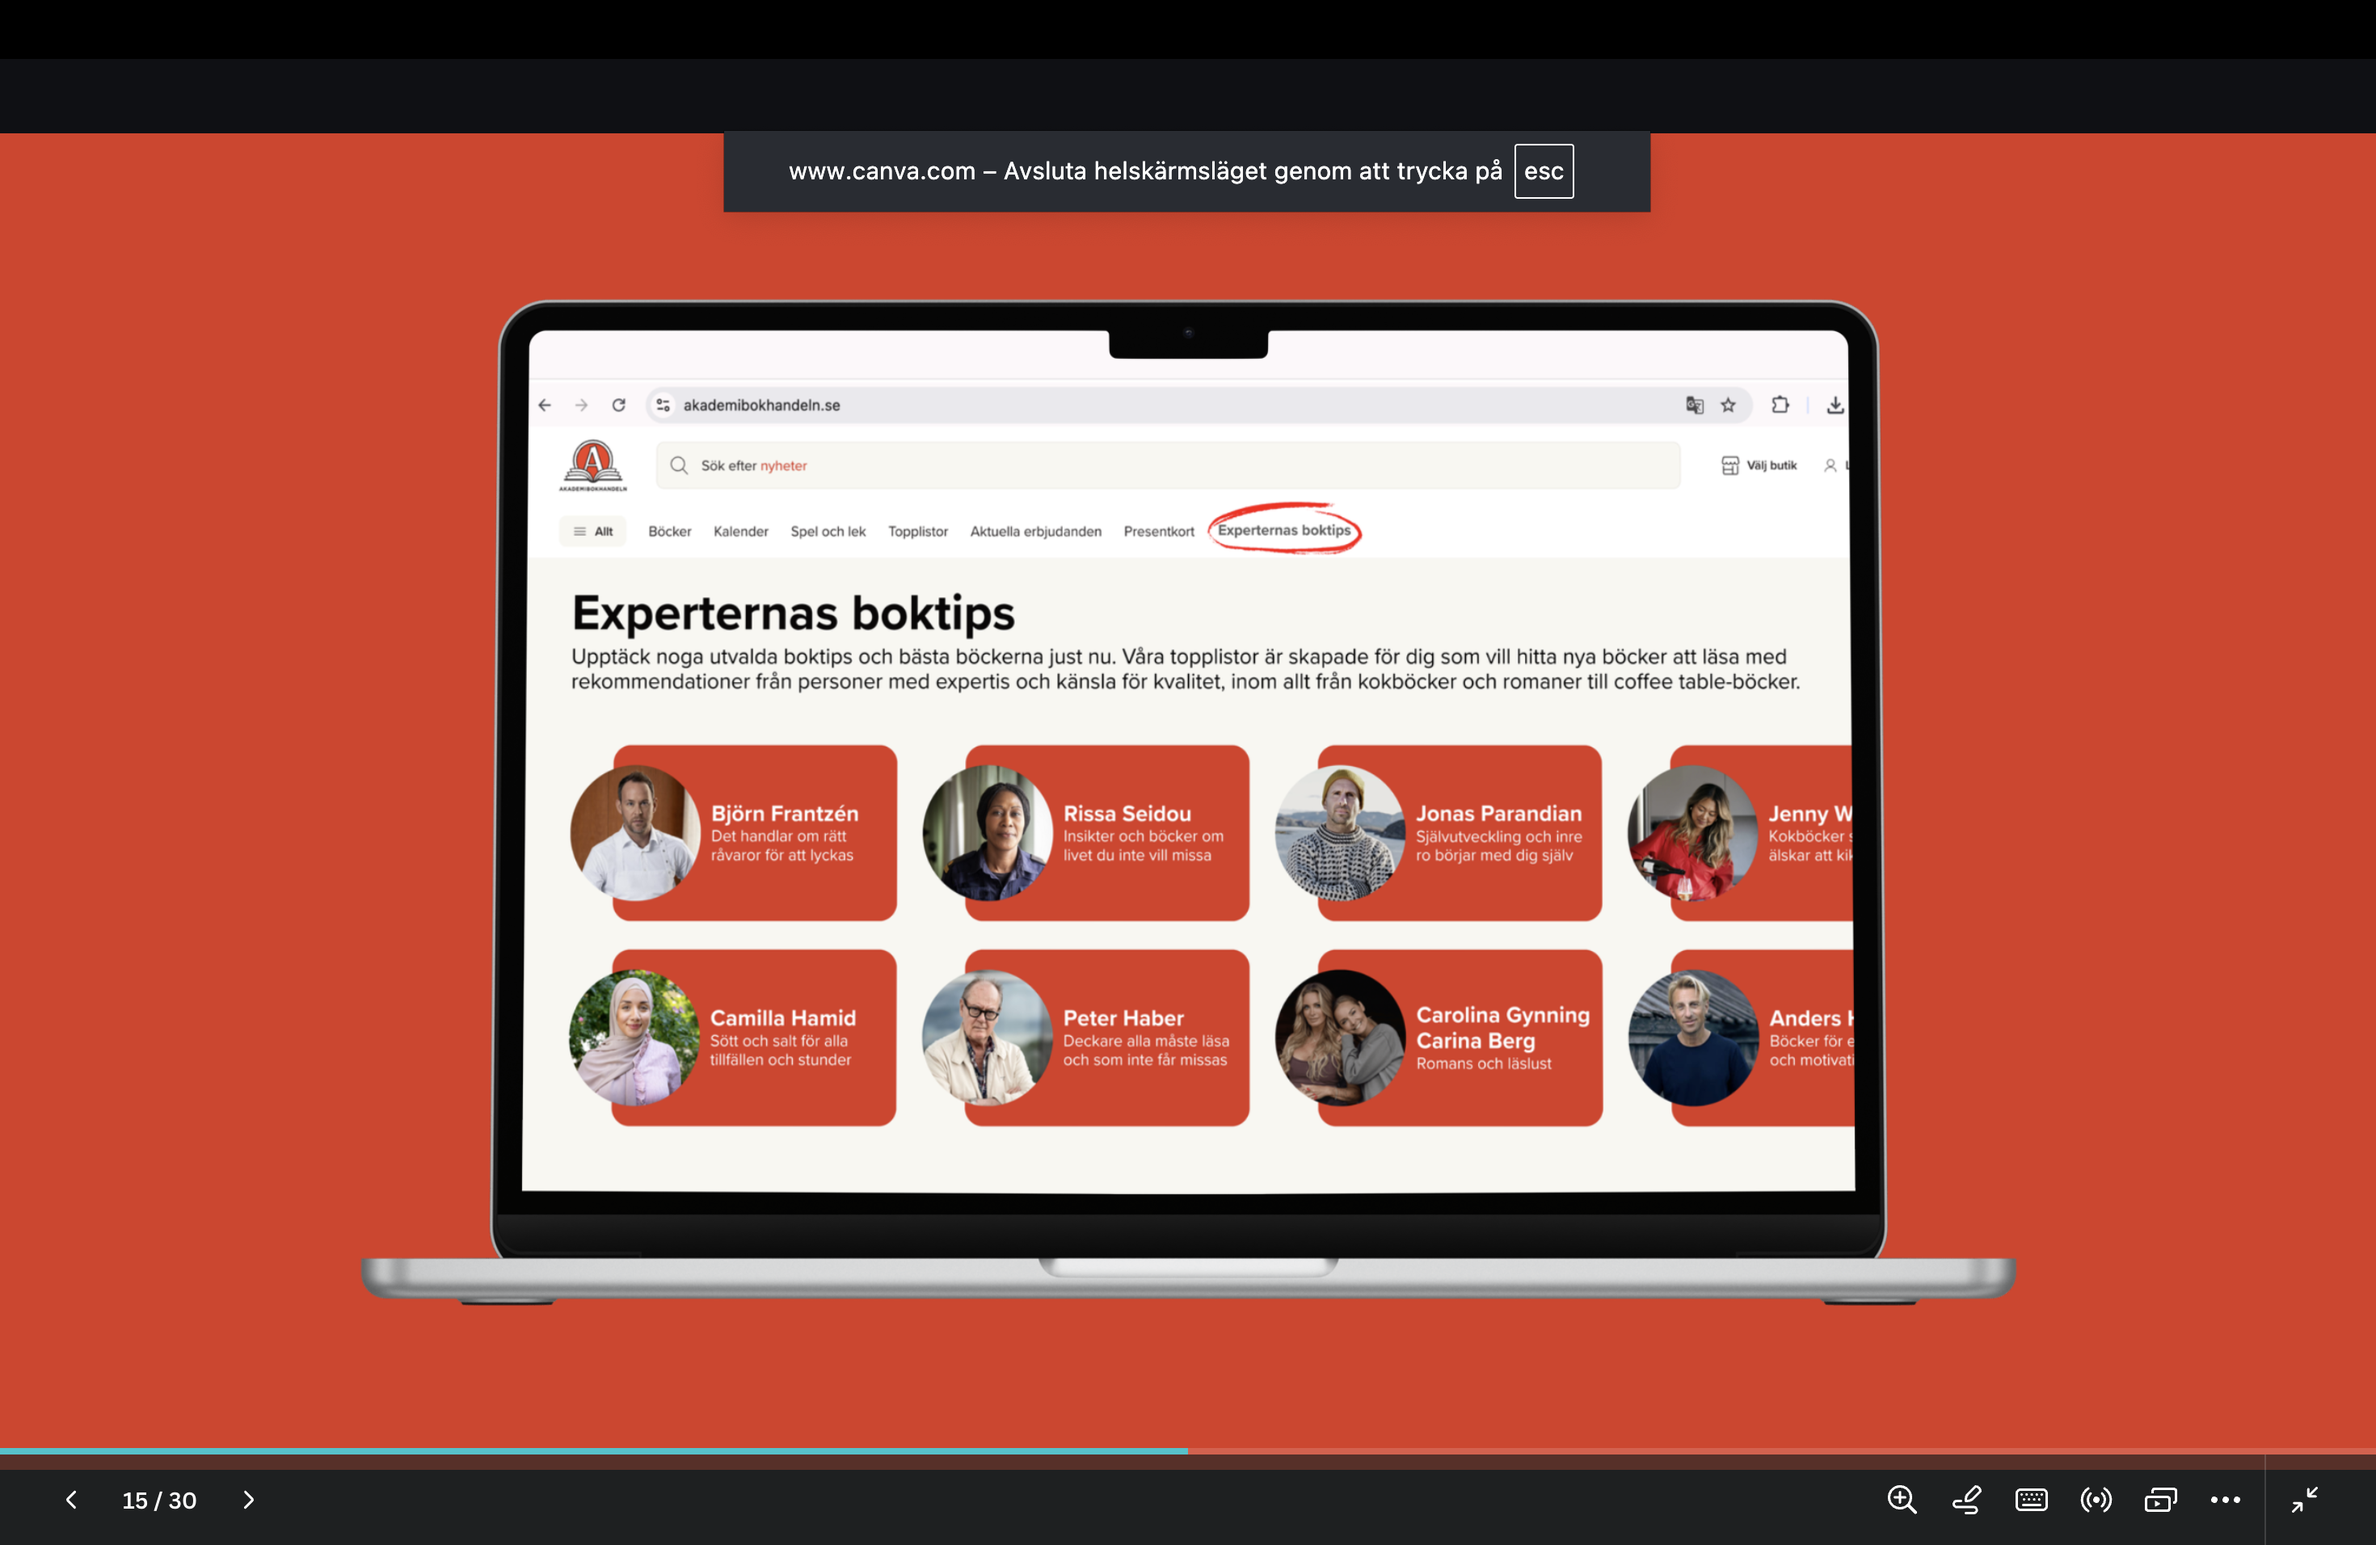
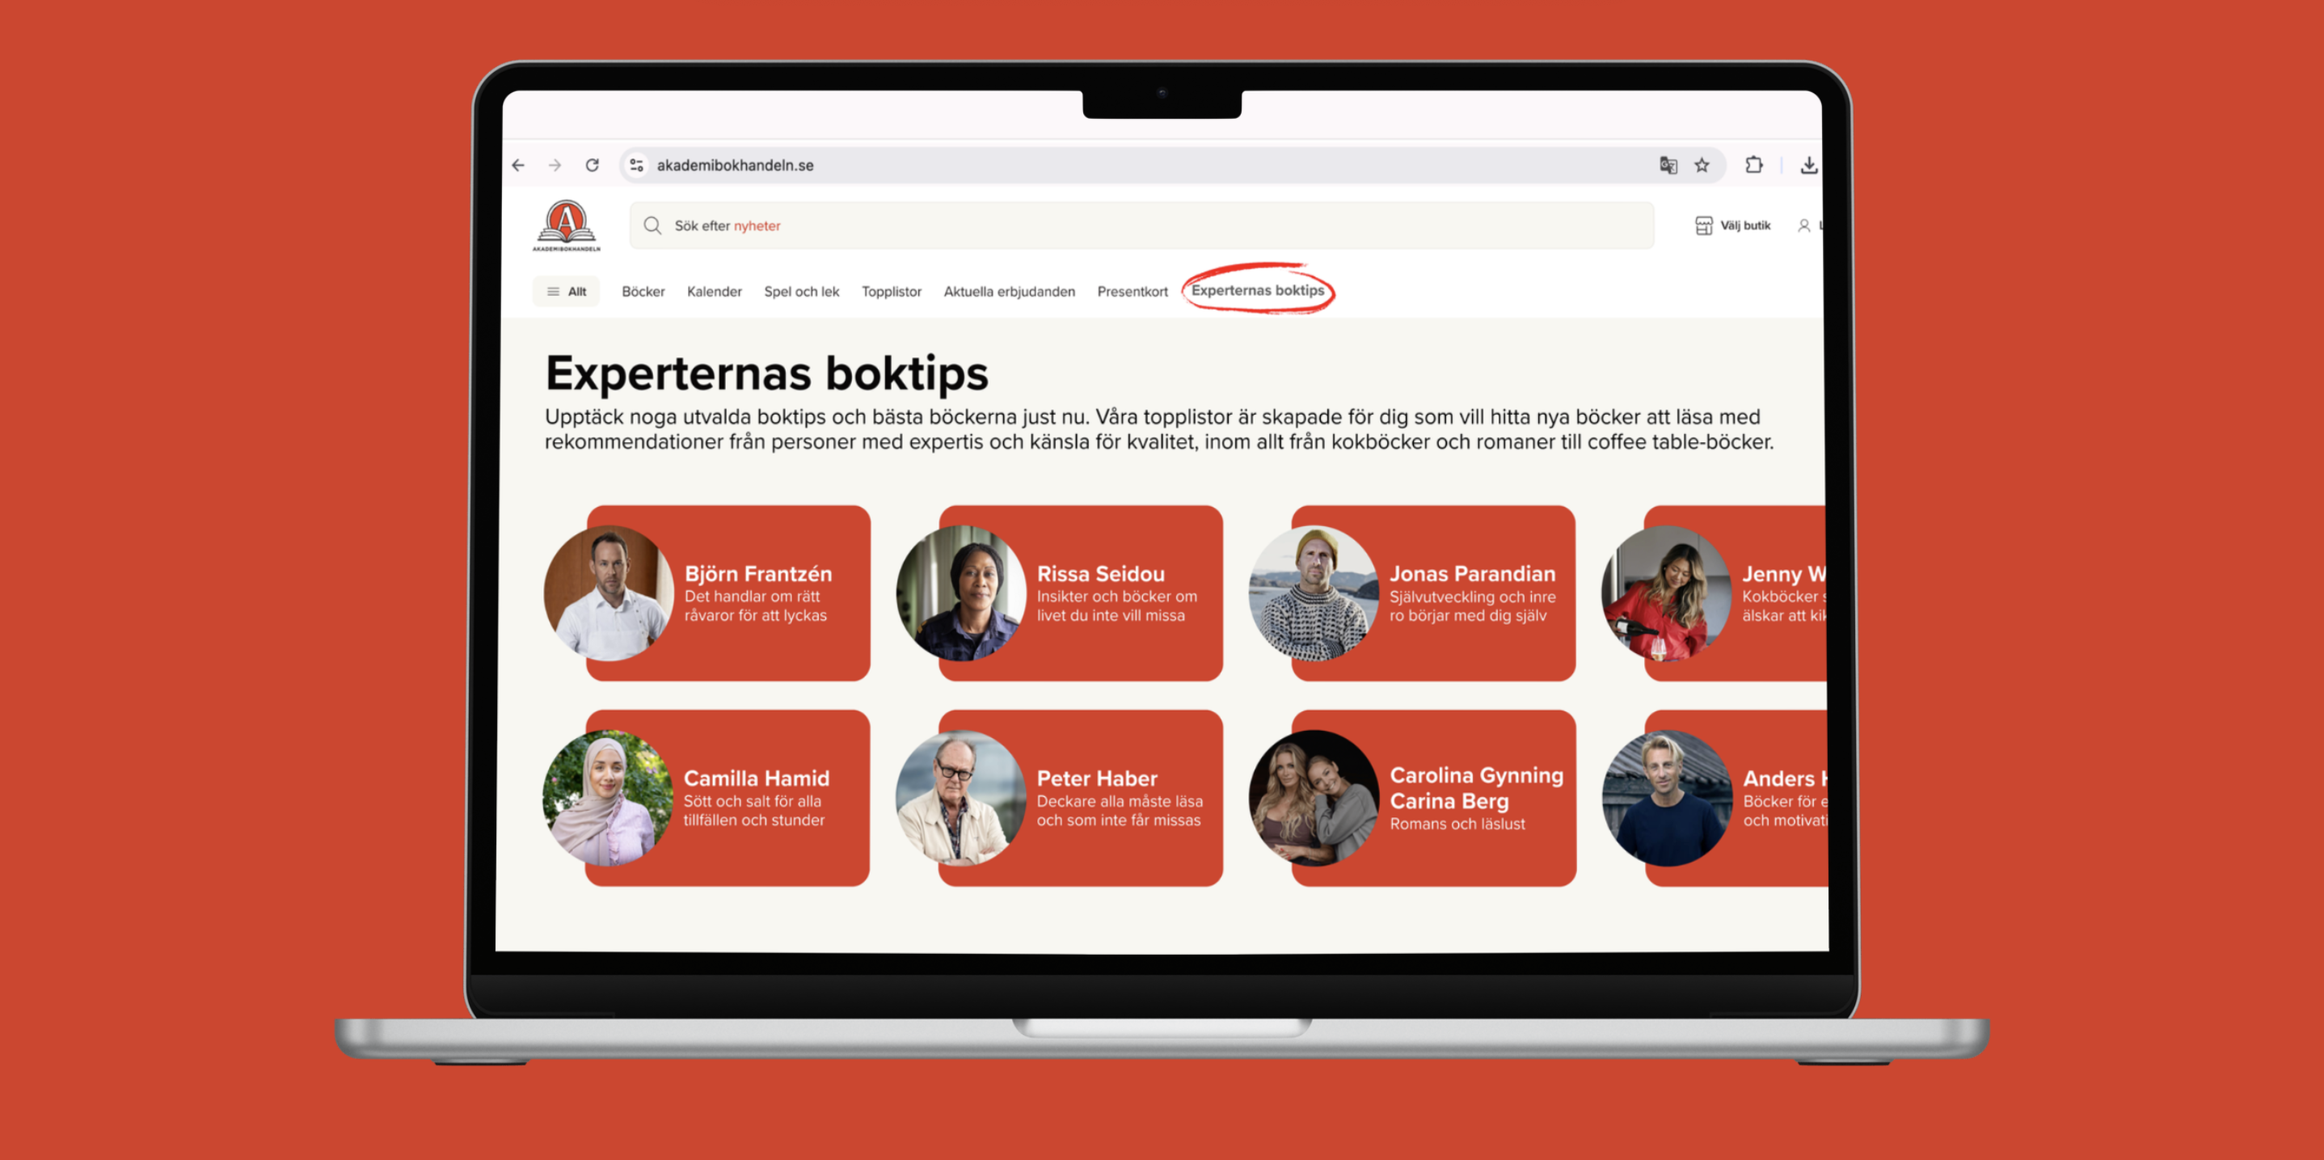
1

diff --git a/index.html b/index.html
@@ -370,7 +370,7 @@
             <a class="course-card" href="projekt.html">
                 <p class="course-label">SEO</p>
                 <p class="client-label">Akademibokhandeln</p>
-                <img class="course-image" src="bild-jasmine.JPG" alt="Projektbild 2">
+                <img class="course-image" src="AB.png" alt="Projektbild 2">
             </a>
             <a class="course-card" href="projekt.html">
                 <p class="course-label">CRO</p>
